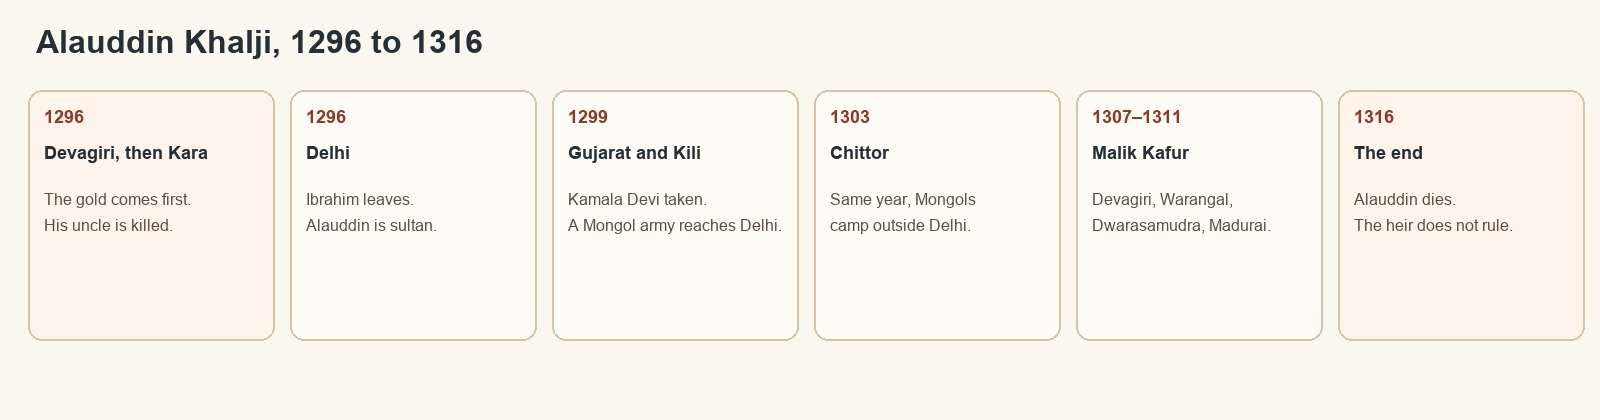
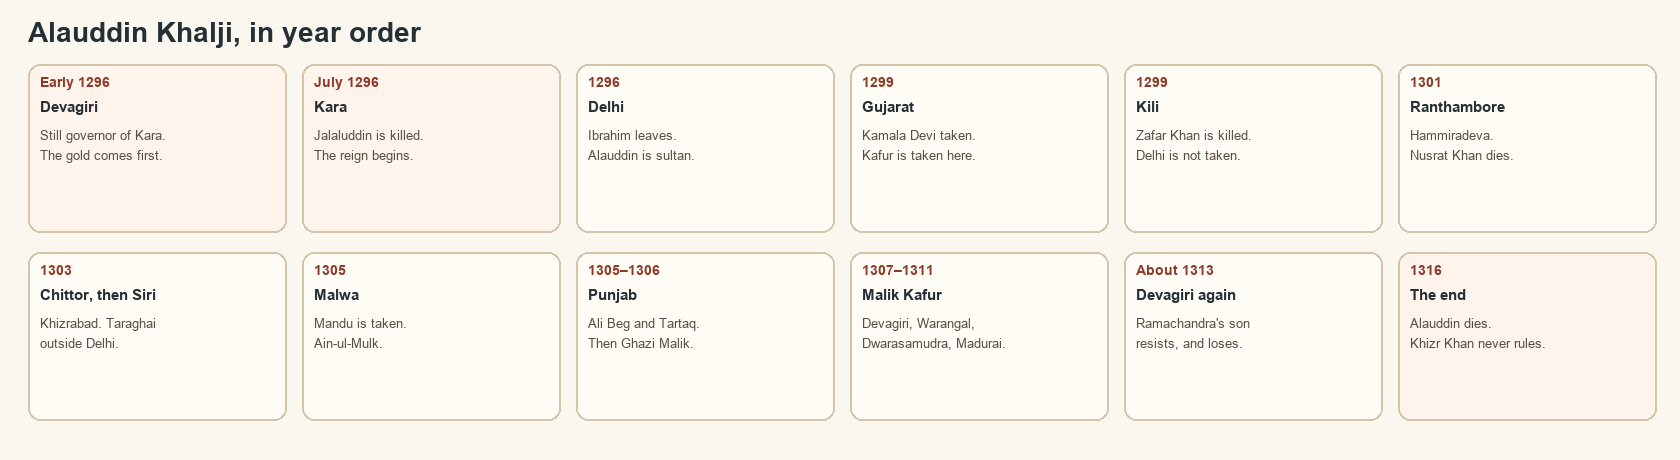
Update workspace configuration and revise content on Alauddin Khalji's campaigns. Change active tab and remove outdated entries, while enhancing clarity and organization in historical files. Update binary assets related to Alauddin's campaigns and dates.

diff --git a/📜 History/India(Bharat)/Medieval Indian history/Early Medieval India/2. Delhi Sultan Period(1206-1526AD)/2. Khalji Dynasty(1290-1320)/09. Alauddin Khalji (1296–1316).md b/📜 History/India(Bharat)/Medieval Indian history/Early Medieval India/2. Delhi Sultan Period(1206-1526AD)/2. Khalji Dynasty(1290-1320)/09. Alauddin Khalji (1296–1316).md
@@ -48,7 +48,7 @@ The number on the map is the order. Read 1, then 2, then 3. Devagiri is 1, then 
 | 7   | 1303       | Chittor                    | Ratnasimha. Alauddin takes the fort and names it Khizrabad, after his son.                                                              |
 | 8   | 1303       | Outside Delhi              | While he is at Chittor, a Mongol force under Targhi camps before Delhi. The city holds. Afterwards he builds the camp-city of **Siri**. |
 | 9   | About 1305 | Malwa                      | Ain-ul-Mulk Multani. Mandu passes under Delhi.                                                                                          |
-| 10  | 1306       | The Punjab frontier        | Further Mongol bands are beaten. **Ghazi Malik**, the later Tughlaq, makes his name on this frontier.                                   |
+| 10  | 1305–1306  | The Punjab frontier        | About 1305, **Ali Beg** and **Tartaq** are defeated. In 1306 another force is broken. **Ghazi Malik**, the later Tughlaq, makes his name here. Delhi is not besieged. |
 | 11  | 1307       | Devagiri                   | Malik Kafur. Ramachandra submits and becomes a tributary. Jhatyapali comes to Delhi from this relationship.                             |
 | 12  | About 1310 | Warangal                   | Prataparudra of the Kakatiyas pays tribute. This expedition takes treasure, and leaves the kingdom in place.                            |
 | 13  | 1311       | Dwarasamudra, then Madurai | Ballala III of the Hoysalas submits. Kafur goes on to the Pandya country, takes treasure, and leaves.                                   |
@@ -108,7 +108,10 @@ The sequence is:
 - Ruler = **Ratnasimha / Ratan Singh**, of the Guhila line
 - **Alauddin Khalji besieged and captured Chittor in 1303**
 - After the conquest, Chittor was associated with the name **Khizrabad**, after Alauddin's son **Khizr Khan**
-- Chittor's Rajput tradition remembers this conquest as involving **Jauhar** and a final **saka** (last battle by the defenders). Chittor later became famous for multiple jauhar traditions.
+- Chittor's later tradition remembers a **jauhar** and a last fight by the defenders. The line to write is the siege, the year **1303**, and the new name **Khizrabad**. **Padmavat**, and Padmini as the cause, is a sixteenth-century poem.
+
+### 8. Outside Delhi, the same year, 1303
+
 #### Who was Targhi?
 
 **Targhi**, more accurately written **Taraghai**, was a **Mongol commander of the Chagatai Khanate**.
@@ -126,7 +129,7 @@ Alauddin was campaigning at **Chittor** when the Mongol threat developed. He cap
 His situation was difficult because much of his military strength was away or exhausted from other campaigns. The Mongols also blocked routes leading into Delhi.
 Instead of risking a major open battle, Alauddin established a fortified position at **Siri**, protected with troops, elephants, a ditch, and defensive barriers.
 
-The Mongols attacked and plundered areas around Delhi, but they **could not penetrate Alauddin's Siri position**. After roughly two months, Taraghai withdrew.
+The Mongols attacked and plundered areas around Delhi, but they **could not penetrate Alauddin's Siri position**. After roughly two months, Taraghai withdrew. The fortified camp becomes the city of Siri, and the palace of a thousand pillars, only after he has gone.
 
 ### 9. Malwa(1305)
 - **Malwa** = a major region of present-day **Madhya Pradesh**, in central India.
@@ -205,6 +208,7 @@ Amir Khusrau is the poet of these years, in *Khazain-ul-Futuh* and in the poem o
 - **Khuts, muqaddams and chaudharis** lose their old exemptions and pay like the peasant.
 - Two extra taxes come into the answer: **ghari**, a house tax, and **charai**, a grazing tax.
 - Much of this land is pulled into **khalisa**, land whose revenue comes straight to the crown.
+- **Diwan-i-Mustakhraj** is the office that chases arrears. The name is worth a mark.
 - The iqta is tightened and watched. It is not abolished. These rules are the Doab, the country that supplied Delhi, not a price list for every province.
 
 **The Delhi market**
